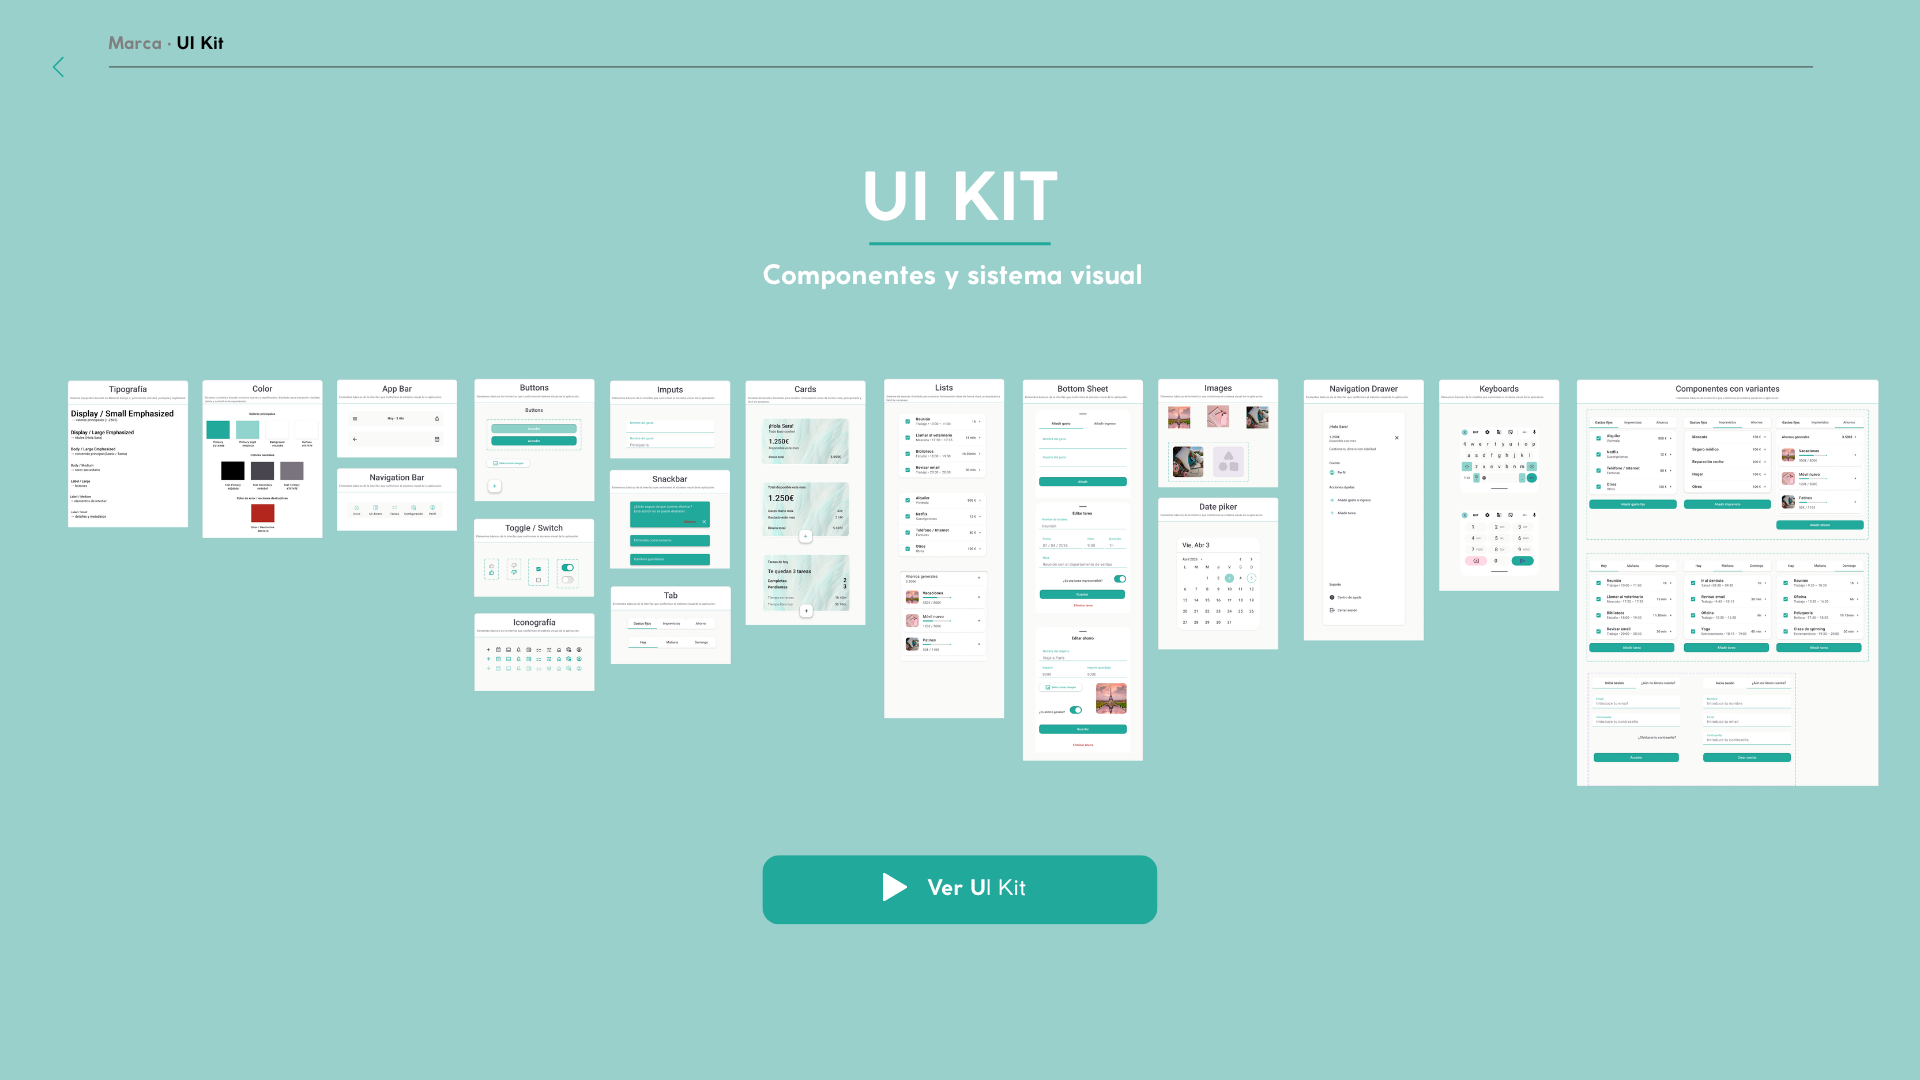
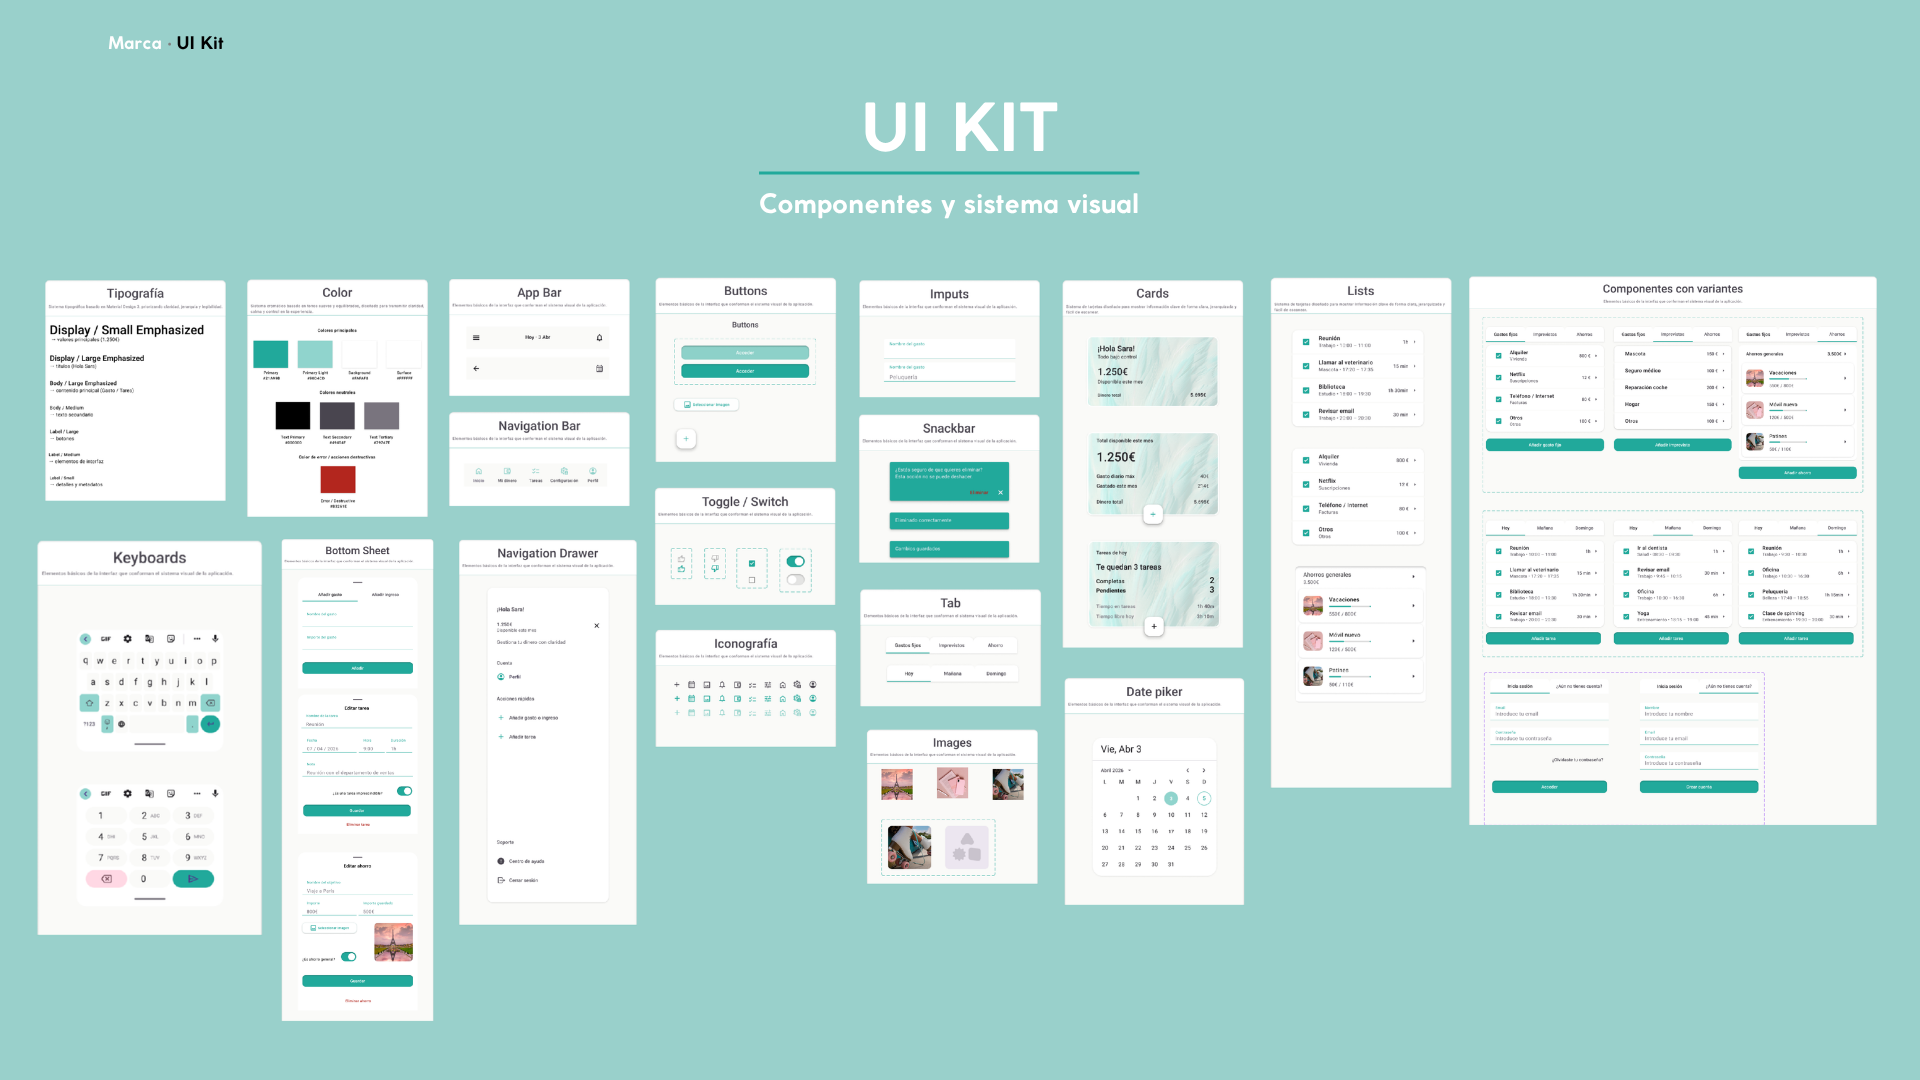
cambios en ui kit

diff --git a/project-claro.html b/project-claro.html
@@ -1,5 +1,43 @@
 <!DOCTYPE html>
 <html lang="es">
+  <style>
+  main img {
+    transition: transform 0.5s ease, filter 0.5s ease;
+  }
+
+  main img.zoomable-image {
+    cursor: zoom-in;
+  }
+
+  main img.zoomable-image:hover {
+    transform: scale(1.025);
+    filter: saturate(1.03);
+  }
+
+  #lightbox {
+    animation: fadeIn 0.18s ease-out;
+  }
+
+  #lightbox img {
+    animation: zoomIn 0.22s ease-out;
+  }
+
+  @keyframes fadeIn {
+    from { opacity: 0; }
+    to { opacity: 1; }
+  }
+
+  @keyframes zoomIn {
+    from {
+      opacity: 0;
+      transform: scale(0.96);
+    }
+    to {
+      opacity: 1;
+      transform: scale(1);
+    }
+  }
+</style>
 <head>
   <meta charset="UTF-8" />
   <meta name="viewport" content="width=device-width, initial-scale=1.0" />
@@ -1042,94 +1080,64 @@
         </div>
       </section>
           <!-- PROTOTIPO FINAL -->
-      <section class="relative overflow-hidden rounded-[36px] border border-line bg-white p-7 shadow-soft sm:p-10 lg:p-12">
-        <div class="pointer-events-none absolute right-[-180px] top-[-160px] h-[420px] w-[420px] rounded-full bg-accent opacity-10 blur-[100px]"></div>
+<section class="relative overflow-hidden rounded-[36px] border border-line bg-white p-7 shadow-soft sm:p-10 lg:p-12">
+  <div class="pointer-events-none absolute right-[-180px] top-[-160px] h-[420px] w-[420px] rounded-full bg-accent opacity-10 blur-[100px]"></div>
 
-        <div class="relative">
-          <p class="text-xs font-extrabold uppercase tracking-[0.18em] text-accent">
-            09 · Prototipo final
+  <div class="relative">
+    <p class="text-xs font-extrabold uppercase tracking-[0.18em] text-accent">
+      09 · Prototipo final
+    </p>
+
+    <div class="mt-7 grid gap-10 lg:grid-cols-[0.72fr_1.28fr] lg:items-center">
+      <div>
+        <h2 class="text-3xl font-extrabold leading-[1.02] tracking-[-0.06em] sm:text-5xl">
+          La experiencia final de CLARO.
+        </h2>
+
+        <p class="mt-6 text-base leading-8 text-muted">
+          El prototipo final permite recorrer el flujo principal de la app: iniciar sesión, consultar el estado del dinero, añadir un gasto y recibir feedback inmediato.
+        </p>
+
+        <div class="mt-7 rounded-[30px] bg-soft p-6">
+          <p class="text-xs font-extrabold uppercase tracking-[0.16em] text-accent">
+            Flujo principal
           </p>
 
-          <div class="mt-7 grid gap-10 lg:grid-cols-[0.72fr_1.28fr] lg:items-center">
-            <div>
-              <h2 class="text-3xl font-extrabold leading-[1.02] tracking-[-0.06em] sm:text-5xl">
-                La experiencia final de CLARO.
-              </h2>
-
-              <p class="mt-6 text-base leading-8 text-muted">
-                El prototipo final permite recorrer el flujo principal de la app: iniciar sesión, consultar el estado del dinero, añadir un gasto y recibir feedback inmediato.
-              </p>
-
-              <div class="mt-7 rounded-[30px] bg-soft p-6">
-                <p class="text-xs font-extrabold uppercase tracking-[0.16em] text-accent">
-                  Flujo principal
-                </p>
-
-                <div class="mt-4 space-y-3">
-                  <p class="rounded-2xl bg-white p-4 text-sm font-bold shadow-sm">01 · Iniciar sesión</p>
-                  <p class="rounded-2xl bg-white p-4 text-sm font-bold shadow-sm">02 · Revisar dinero disponible</p>
-                  <p class="rounded-2xl bg-white p-4 text-sm font-bold shadow-sm">03 · Añadir gasto</p>
-                  <p class="rounded-2xl bg-white p-4 text-sm font-bold shadow-sm">04 · Ver actualización y confirmación</p>
-                </div>
-              </div>
-
-              <a
-                href="https://www.figma.com/proto/dQrP956PnxR0erdeM4OIwh/CLAR%C3%93?page-id=0%3A1&node-id=1786-954&viewport=4905%2C985%2C0.46&t=V2tJDfkeXtXcYqGg-1&scaling=scale-down&content-scaling=fixed&starting-point-node-id=1786%3A954&show-proto-sidebar=1"
-                target="_blank"
-                rel="noopener noreferrer"
-                class="mt-8 inline-flex min-h-12 items-center justify-center rounded-full bg-accent px-6 py-3 text-sm font-extrabold text-white shadow-glow transition hover:bg-accentDark"
-              >
-                Abrir prototipo en Figma
-              </a>
-            </div>
-
-            <div class="relative">
-              <div class="pointer-events-none absolute inset-0 flex items-center justify-center">
-                <div class="h-[360px] w-[360px] rounded-full bg-accent opacity-10 blur-[90px]"></div>
-              </div>
-
-              <div class="relative grid grid-cols-2 gap-4 xl:grid-cols-4">
-                <div class="rounded-[30px] bg-soft p-3 shadow-soft transition hover:-translate-y-1 hover:shadow-luxe">
-                  <img
-                    src="images/inicio.png"
-                    alt="Pantalla de inicio de CLARO"
-                    class="mx-auto max-h-[390px] w-auto"
-                    loading="lazy"
-                  />
-                </div>
-
-                <div class="rounded-[30px] bg-soft p-3 shadow-soft transition hover:-translate-y-1 hover:shadow-luxe xl:mt-10">
-                  <img
-                    src="images/mi_dinero.png"
-                    alt="Pantalla Mi dinero de CLARO"
-                    class="mx-auto max-h-[390px] w-auto"
-                    loading="lazy"
-                  />
-                </div>
-
-                <div class="rounded-[30px] bg-soft p-3 shadow-soft transition hover:-translate-y-1 hover:shadow-luxe">
-                  <img
-                    src="images/añadir_gasto.png"
-                    alt="Pantalla Añadir gasto de CLARO"
-                    class="mx-auto max-h-[390px] w-auto"
-                    loading="lazy"
-                  />
-                </div>
-
-                <div class="rounded-[30px] bg-soft p-3 shadow-soft transition hover:-translate-y-1 hover:shadow-luxe xl:mt-10">
-                  <img
-                    src="images/tareas.png"
-                    alt="Pantalla Tareas de CLARO"
-                    class="mx-auto max-h-[390px] w-auto"
-                    loading="lazy"
-                  />
-                </div>
-              </div>
-            </div>
+          <div class="mt-4 space-y-3">
+            <p class="rounded-2xl bg-white p-4 text-sm font-bold shadow-sm">01 · Iniciar sesión</p>
+            <p class="rounded-2xl bg-white p-4 text-sm font-bold shadow-sm">02 · Revisar dinero disponible</p>
+            <p class="rounded-2xl bg-white p-4 text-sm font-bold shadow-sm">03 · Añadir gasto</p>
+            <p class="rounded-2xl bg-white p-4 text-sm font-bold shadow-sm">04 · Ver actualización y confirmación</p>
           </div>
         </div>
-      </section>
 
+        <a
+          href="https://www.figma.com/proto/dQrP956PnxR0erdeM4OIwh/CLAR%C3%93?page-id=0%3A1&node-id=1786-954&viewport=4905%2C985%2C0.46&t=V2tJDfkeXtXcYqGg-1&scaling=scale-down&content-scaling=fixed&starting-point-node-id=1786%3A954&show-proto-sidebar=1"
+          target="_blank"
+          rel="noopener noreferrer"
+          class="mt-8 inline-flex min-h-12 items-center justify-center rounded-full bg-accent px-6 py-3 text-sm font-extrabold text-white shadow-glow transition hover:bg-accentDark"
+        >
+          Abrir prototipo en Figma
+        </a>
+      </div>
+
+      <div class="relative">
+        <div class="pointer-events-none absolute inset-0 flex items-center justify-center">
+          <div class="h-[380px] w-[380px] rounded-full bg-accent opacity-10 blur-[90px]"></div>
+        </div>
+
+        <div class="relative overflow-hidden rounded-[36px] bg-[#86D9D0] p-3 shadow-luxe ring-1 ring-white/70 sm:p-4">
+          <img
+            src="images/prototipo_final.png"
+            alt="Pantallas principales del prototipo final de CLARO"
+            class="zoomable-image block w-full rounded-[28px] object-cover"
+            loading="lazy"
+          />
+        </div>
+      </div>
+    </div>
+  </div>
+</section>
       <!-- TESTING -->
       <section class="relative overflow-hidden rounded-[36px] border border-line bg-white p-7 shadow-soft sm:p-10 lg:p-12">
         <div class="pointer-events-none absolute left-[-160px] top-[-120px] h-[360px] w-[360px] rounded-full bg-accent opacity-10 blur-[100px]"></div>
@@ -1365,32 +1373,110 @@
     </div>
   </footer>
 
+  <!-- LIGHTBOX -->
+<div
+  id="lightbox"
+  class="fixed inset-0 z-[999] hidden items-center justify-center bg-black/75 p-4 backdrop-blur-sm"
+  role="dialog"
+  aria-modal="true"
+  aria-label="Imagen ampliada"
+>
+  <button
+    id="lightboxClose"
+    type="button"
+    class="absolute right-5 top-5 flex h-11 w-11 items-center justify-center rounded-full bg-white text-xl font-extrabold text-ink shadow-luxe transition hover:bg-accent hover:text-white"
+    aria-label="Cerrar imagen ampliada"
+  >
+    ×
+  </button>
+
+  <img
+    id="lightboxImg"
+    src=""
+    alt=""
+    class="max-h-[88vh] max-w-[92vw] rounded-[24px] bg-white object-contain shadow-luxe"
+  />
+</div>
+
   <script>
-    const menuToggle = document.getElementById("menuToggle");
-    const navLinks = document.getElementById("navLinks");
+  const menuToggle = document.getElementById("menuToggle");
+  const navLinks = document.getElementById("navLinks");
 
-    if (menuToggle && navLinks) {
-      menuToggle.addEventListener("click", () => {
-        const isHidden = navLinks.classList.contains("hidden");
+  if (menuToggle && navLinks) {
+    menuToggle.addEventListener("click", () => {
+      const isHidden = navLinks.classList.contains("hidden");
 
-        navLinks.classList.toggle("hidden", !isHidden);
-        navLinks.classList.toggle("flex", isHidden);
+      navLinks.classList.toggle("hidden", !isHidden);
+      navLinks.classList.toggle("flex", isHidden);
 
-        menuToggle.setAttribute("aria-expanded", String(isHidden));
+      menuToggle.setAttribute("aria-expanded", String(isHidden));
+    });
+
+    const navItems = navLinks.querySelectorAll("a");
+
+    navItems.forEach((item) => {
+      item.addEventListener("click", () => {
+        if (window.innerWidth < 768) {
+          navLinks.classList.add("hidden");
+          navLinks.classList.remove("flex");
+          menuToggle.setAttribute("aria-expanded", "false");
+        }
       });
+    });
+  }
 
-      const navItems = navLinks.querySelectorAll("a");
+  const lightbox = document.getElementById("lightbox");
+  const lightboxImg = document.getElementById("lightboxImg");
+  const lightboxClose = document.getElementById("lightboxClose");
 
-      navItems.forEach((item) => {
-        item.addEventListener("click", () => {
-          if (window.innerWidth < 768) {
-            navLinks.classList.add("hidden");
-            navLinks.classList.remove("flex");
-            menuToggle.setAttribute("aria-expanded", "false");
-          }
-        });
-      });
-    }
-  </script>
+  const zoomableImages = document.querySelectorAll("main img");
+
+  zoomableImages.forEach((img) => {
+    img.classList.add("zoomable-image");
+    img.setAttribute("tabindex", "0");
+    img.setAttribute("role", "button");
+    img.setAttribute("aria-label", "Ampliar imagen");
+
+    const openLightbox = () => {
+      lightboxImg.src = img.src;
+      lightboxImg.alt = img.alt || "Imagen ampliada del proyecto CLARO";
+      lightbox.classList.remove("hidden");
+      lightbox.classList.add("flex");
+      document.body.classList.add("overflow-hidden");
+    };
+
+    img.addEventListener("click", openLightbox);
+
+    img.addEventListener("keydown", (event) => {
+      if (event.key === "Enter" || event.key === " ") {
+        event.preventDefault();
+        openLightbox();
+      }
+    });
+  });
+
+  const closeLightbox = () => {
+    lightbox.classList.add("hidden");
+    lightbox.classList.remove("flex");
+    lightboxImg.src = "";
+    document.body.classList.remove("overflow-hidden");
+  };
+
+  if (lightbox && lightboxClose) {
+    lightboxClose.addEventListener("click", closeLightbox);
+
+    lightbox.addEventListener("click", (event) => {
+      if (event.target === lightbox) {
+        closeLightbox();
+      }
+    });
+
+    document.addEventListener("keydown", (event) => {
+      if (event.key === "Escape" && !lightbox.classList.contains("hidden")) {
+        closeLightbox();
+      }
+    });
+  }
+</script>
 </body>
 </html>